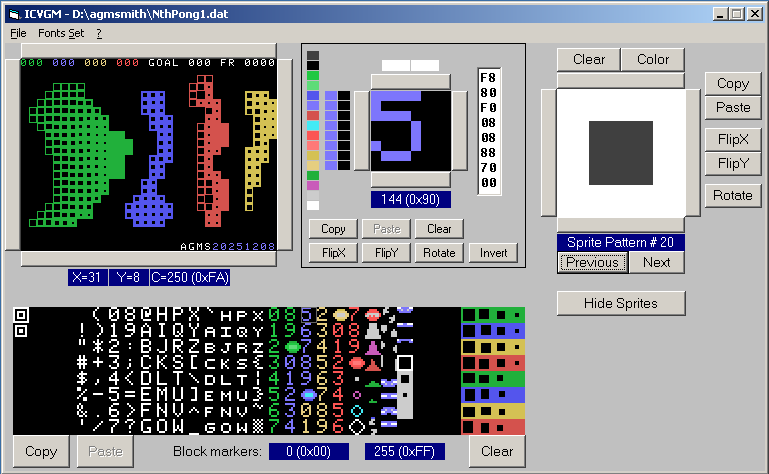
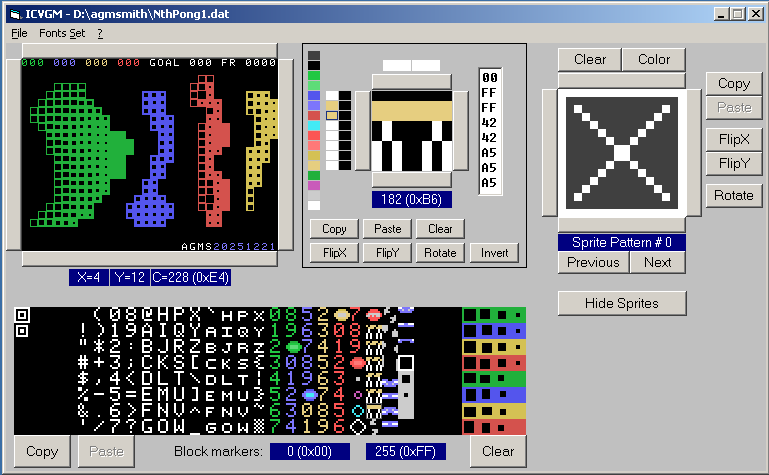
Better power-down to normal graphics, and stop action.
Now looks like a striped barrier with flashing lights on top.

Changed region(s): [[0.0, 0.0, 1.0, 1.0], [0.0624, 0.0, 0.2809, 0.0886]]

diff --git a/SourceCode/Common/simulate.c b/SourceCode/Common/simulate.c
@@ -623,6 +623,8 @@ printf("Player %d: Hit tile %s at (%d,%d)\n",
             {
               /* Power down, go back to Normal - turn off all power-ups. */
               bzero(&pPlayer->power_up_timers, sizeof(pPlayer->power_up_timers));
+              /* Also trigger a STOP power-up when you hit the NORMAL one. */
+              pPlayer->power_up_timers[OWNER_PUP_STOP] = 50;
             }
             else if (previousOwner < (tile_owner) OWNER_MAX)
               pPlayer->power_up_timers[previousOwner] += 50;
